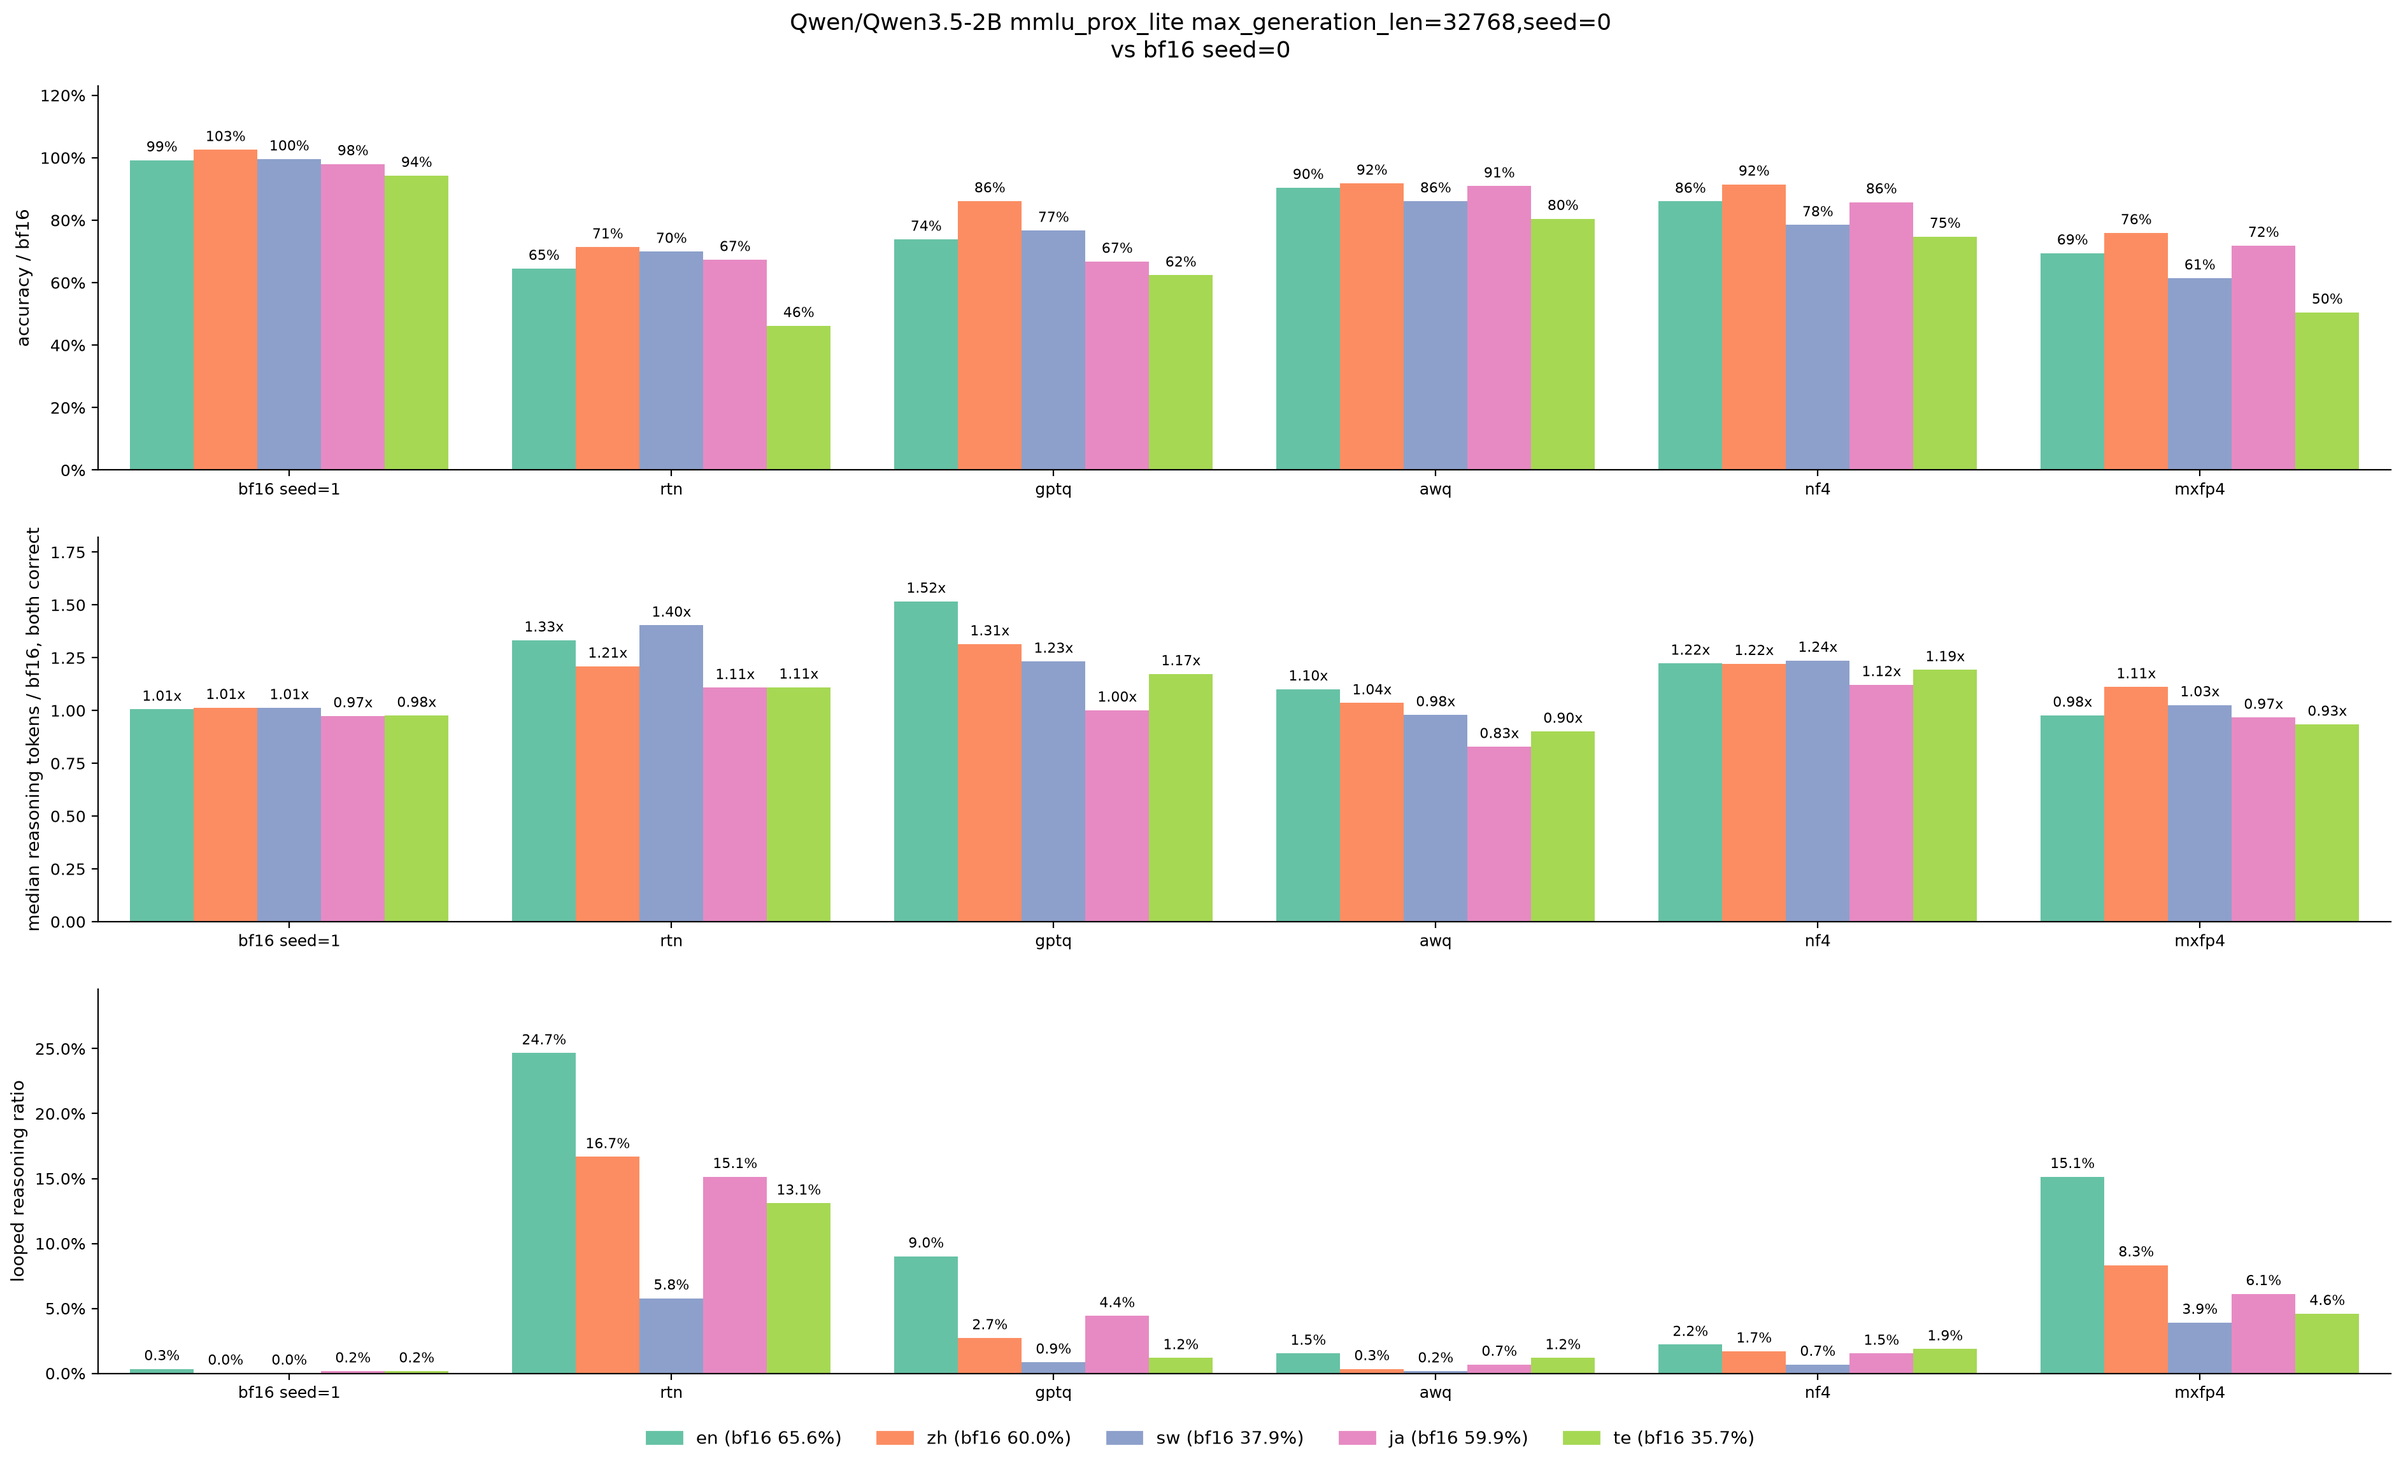
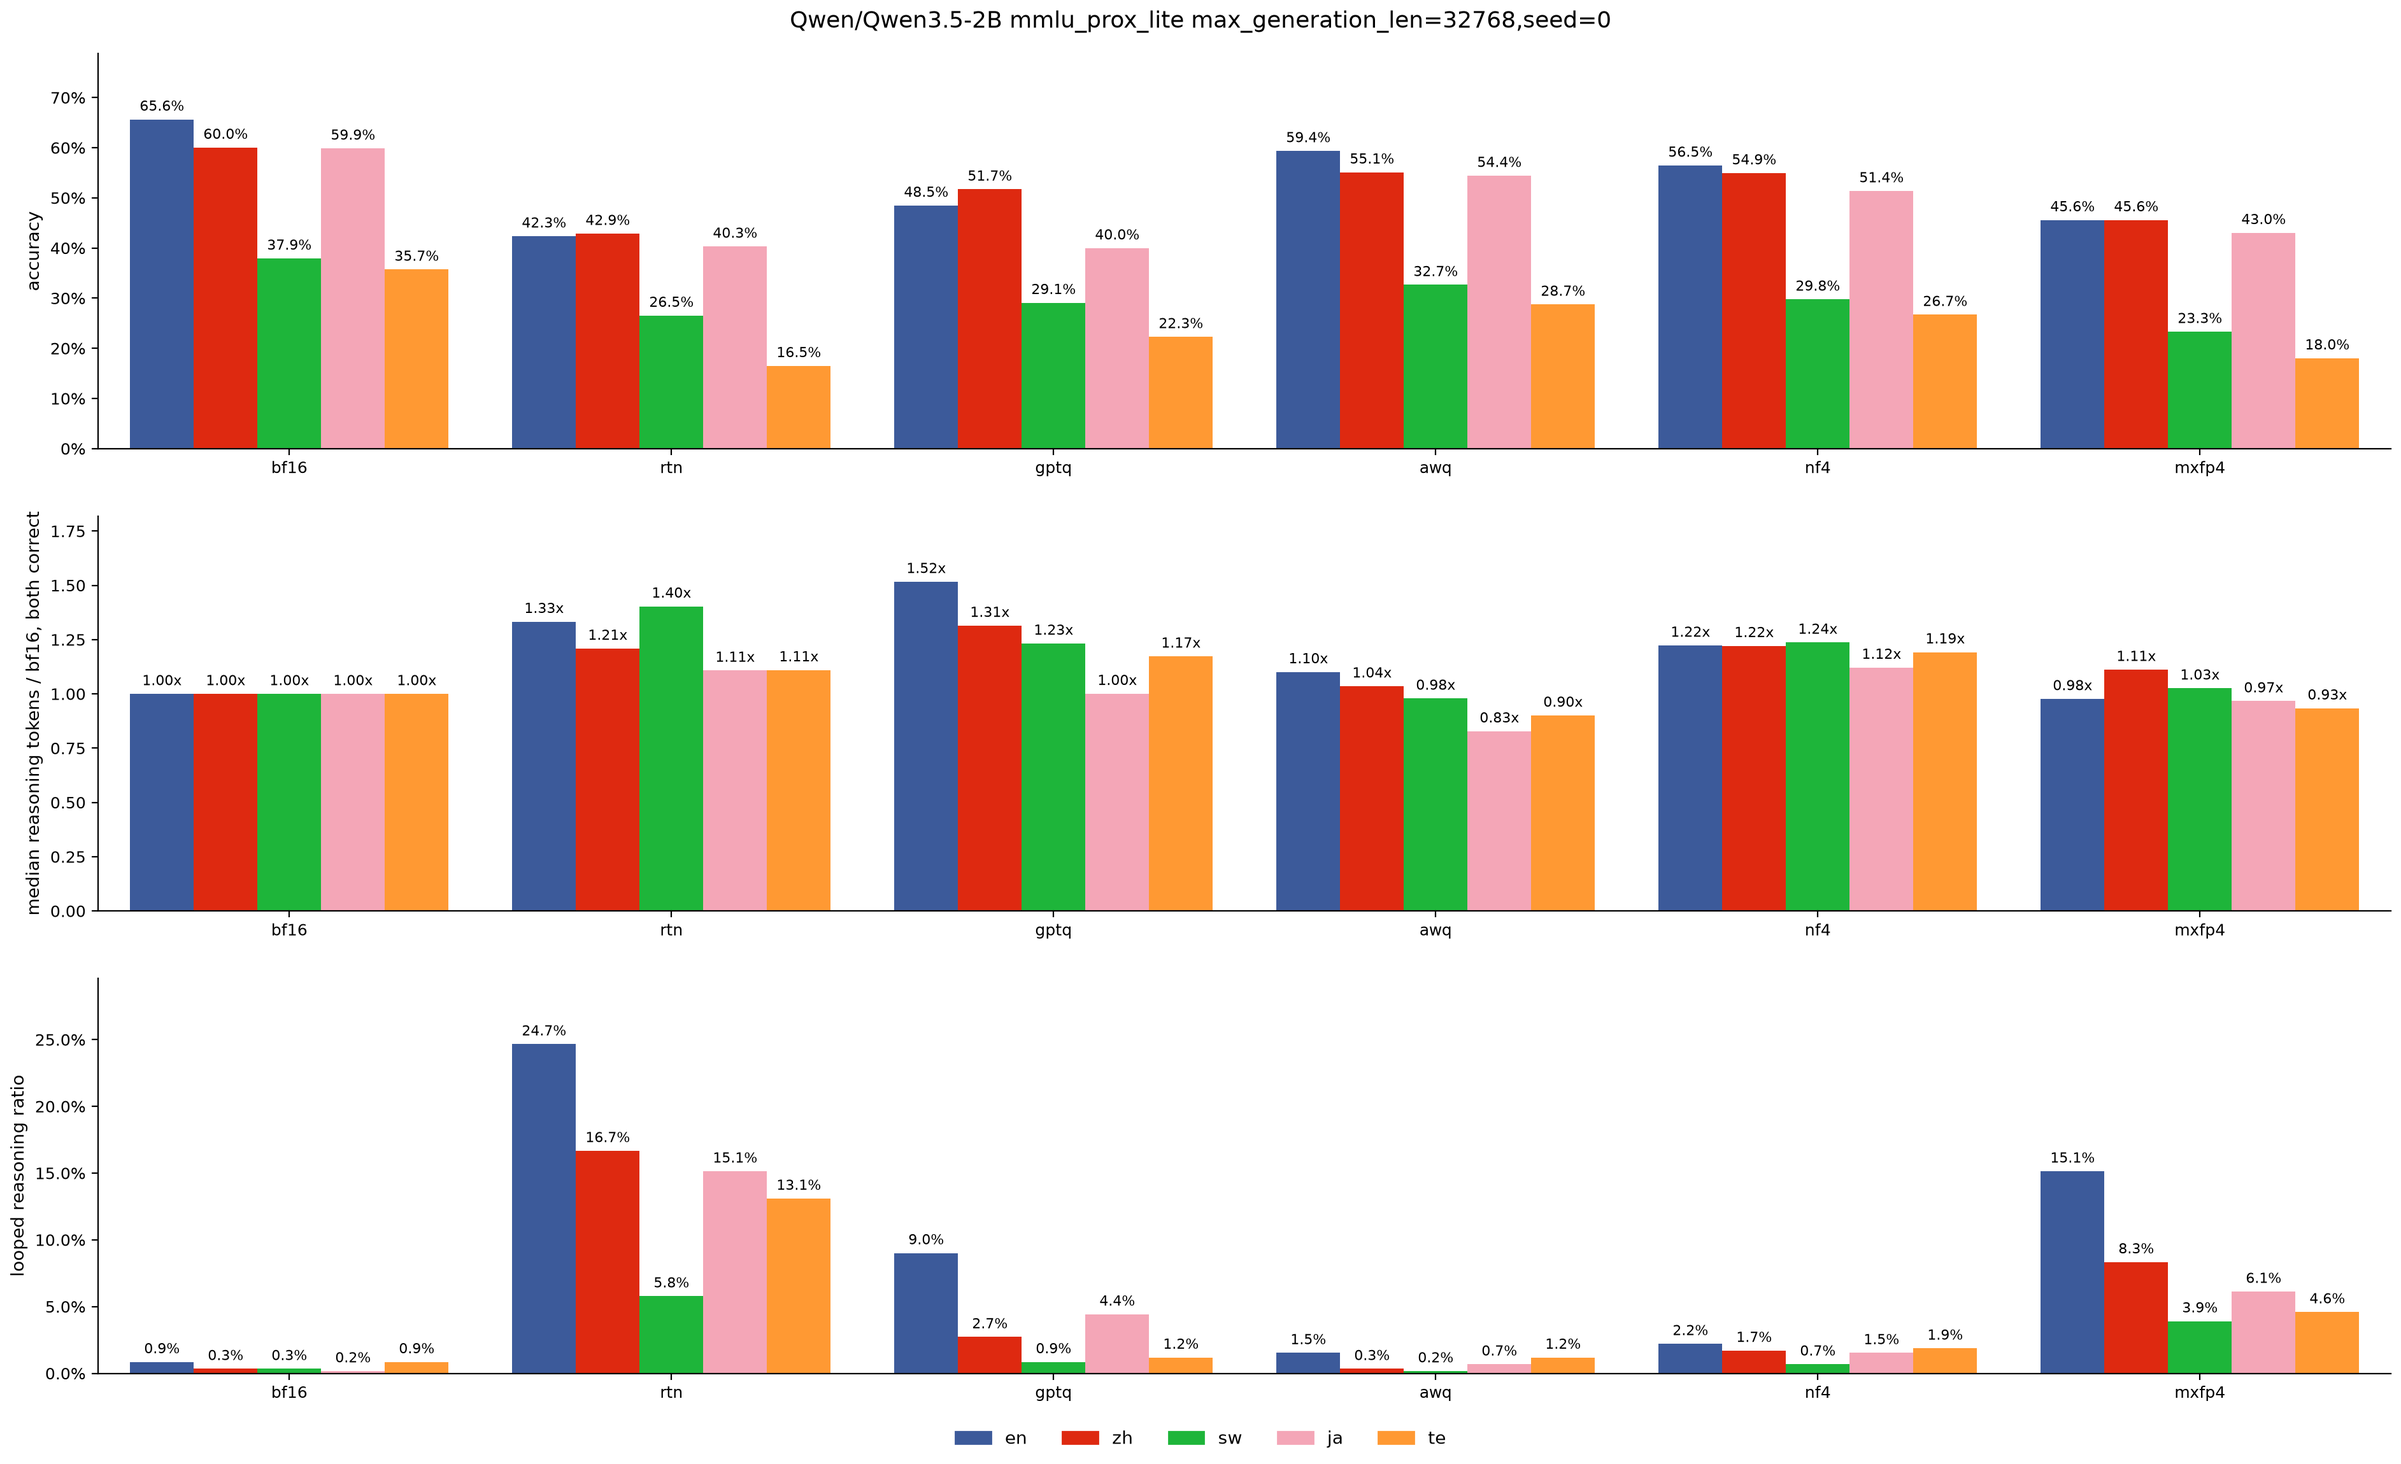
group flip bars by method, use country colors and absolute accuracy

diff --git a/plots/mmlu_prox_lite.py b/plots/mmlu_prox_lite.py
@@ -30,44 +30,40 @@ def main() -> None:
     bf16_result = load_result("mmlu_prox_lite", bf16_target, file_name)
     languages = list(bf16_result)
 
-    results = {}
-    # bf16 with another seed shows sampling noise
-    noise_file_name = f"max_generation_len={config.max_generation_len},seed={config.seed + 1}"
-    if result_exists("mmlu_prox_lite", bf16_target, noise_file_name):
-        results["bf16"] = load_result("mmlu_prox_lite", bf16_target, noise_file_name)
+    results = {"bf16": bf16_result}
     for method in ["rtn", "gptq", "awq", "nf4", "mxfp4"]:
         target = make_target_path(method, config.model_name, config.languages, config.num_bits, config.group_size, config.num_samples)
         if result_exists("mmlu_prox_lite", target, file_name):
             results[method] = load_result("mmlu_prox_lite", target, file_name)
-    method_labels = [f"bf16 seed={config.seed + 1}" if method == "bf16" else method for method in results]
+    methods = list(results)
 
     accuracy_groups = []
     length_groups = []
     loop_groups = []
     for language in languages:
-        accuracy_ratios = [result[language]["accuracy"] / bf16_result[language]["accuracy"] for result in results.values()]
+        accuracies = [result[language]["accuracy"] for result in results.values()]
         length_ratios = [get_length_ratio(result[language], bf16_result[language]) for result in results.values()]
         loop_ratios = [get_loop_ratio(result[language]) for result in results.values()]
-        accuracy_groups.append((accuracy_ratios, LANGUAGE_COLORS[language], [f"{accuracy_ratio:.0%}" for accuracy_ratio in accuracy_ratios]))
+        accuracy_groups.append((accuracies, LANGUAGE_COLORS[language], [f"{accuracy:.1%}" for accuracy in accuracies]))
         length_groups.append((length_ratios, LANGUAGE_COLORS[language], [f"{length_ratio:.2f}x" for length_ratio in length_ratios]))
         loop_groups.append((loop_ratios, LANGUAGE_COLORS[language], [f"{loop_ratio:.1%}" for loop_ratio in loop_ratios]))
     panels = [
-        ("accuracy / bf16", accuracy_groups),
+        ("accuracy", accuracy_groups),
         ("median reasoning tokens / bf16, both correct", length_groups),
         ("looped reasoning ratio", loop_groups),
     ]
     panel_widths = [get_panel_width(len(results), len(languages))]
     fig, axes = plt.subplots(len(panels), 1, figsize=get_figsize(panel_widths, len(panels)), layout="constrained")
     for ax, (ylabel, groups) in zip(axes, panels):
-        plot_bars(ax, method_labels, groups)
+        plot_bars(ax, methods, groups)
         ax.set_ylabel(ylabel)
         ax.margins(y=0.2)
         ax.set_ylim(bottom=0)
     for ax in [axes[0], axes[2]]:
         ax.yaxis.set_major_formatter(PercentFormatter(1))
 
-    fig.suptitle(f"{config.model_name} mmlu_prox_lite {file_name}\nvs bf16 seed={config.seed}")
-    handles = [Patch(color=LANGUAGE_COLORS[language], label=f"{language} (bf16 {bf16_result[language]['accuracy']:.1%})") for language in languages]
+    fig.suptitle(f"{config.model_name} mmlu_prox_lite {file_name}")
+    handles = [Patch(color=LANGUAGE_COLORS[language], label=language) for language in languages]
     fig.legend(handles=handles, loc="outside lower center", ncol=len(handles))
     # panels share one column, so fit width by one panel
     fit_bar_width(fig, [axes[0]])

diff --git a/plots/mgsm.py b/plots/mgsm.py
@@ -30,44 +30,40 @@ def main() -> None:
     bf16_result = load_result("mgsm", bf16_target, file_name)
     languages = list(bf16_result)
 
-    results = {}
-    # bf16 with another seed shows sampling noise
-    noise_file_name = f"max_generation_len={config.max_generation_len},seed={config.seed + 1}"
-    if result_exists("mgsm", bf16_target, noise_file_name):
-        results["bf16"] = load_result("mgsm", bf16_target, noise_file_name)
+    results = {"bf16": bf16_result}
     for method in ["rtn", "gptq", "awq", "nf4", "mxfp4"]:
         target = make_target_path(method, config.model_name, config.languages, config.num_bits, config.group_size, config.num_samples)
         if result_exists("mgsm", target, file_name):
             results[method] = load_result("mgsm", target, file_name)
-    method_labels = [f"bf16 seed={config.seed + 1}" if method == "bf16" else method for method in results]
+    methods = list(results)
 
     accuracy_groups = []
     length_groups = []
     loop_groups = []
     for language in languages:
-        accuracy_ratios = [result[language]["accuracy"] / bf16_result[language]["accuracy"] for result in results.values()]
+        accuracies = [result[language]["accuracy"] for result in results.values()]
         length_ratios = [get_length_ratio(result[language], bf16_result[language]) for result in results.values()]
         loop_ratios = [get_loop_ratio(result[language]) for result in results.values()]
-        accuracy_groups.append((accuracy_ratios, LANGUAGE_COLORS[language], [f"{accuracy_ratio:.0%}" for accuracy_ratio in accuracy_ratios]))
+        accuracy_groups.append((accuracies, LANGUAGE_COLORS[language], [f"{accuracy:.1%}" for accuracy in accuracies]))
         length_groups.append((length_ratios, LANGUAGE_COLORS[language], [f"{length_ratio:.2f}x" for length_ratio in length_ratios]))
         loop_groups.append((loop_ratios, LANGUAGE_COLORS[language], [f"{loop_ratio:.1%}" for loop_ratio in loop_ratios]))
     panels = [
-        ("accuracy / bf16", accuracy_groups),
+        ("accuracy", accuracy_groups),
         ("median reasoning tokens / bf16, both correct", length_groups),
         ("looped reasoning ratio", loop_groups),
     ]
     panel_widths = [get_panel_width(len(results), len(languages))]
     fig, axes = plt.subplots(len(panels), 1, figsize=get_figsize(panel_widths, len(panels)), layout="constrained")
     for ax, (ylabel, groups) in zip(axes, panels):
-        plot_bars(ax, method_labels, groups)
+        plot_bars(ax, methods, groups)
         ax.set_ylabel(ylabel)
         ax.margins(y=0.2)
         ax.set_ylim(bottom=0)
     for ax in [axes[0], axes[2]]:
         ax.yaxis.set_major_formatter(PercentFormatter(1))
 
-    fig.suptitle(f"{config.model_name} mgsm {file_name}\nvs bf16 seed={config.seed}")
-    handles = [Patch(color=LANGUAGE_COLORS[language], label=f"{language} (bf16 {bf16_result[language]['accuracy']:.1%})") for language in languages]
+    fig.suptitle(f"{config.model_name} mgsm {file_name}")
+    handles = [Patch(color=LANGUAGE_COLORS[language], label=language) for language in languages]
     fig.legend(handles=handles, loc="outside lower center", ncol=len(handles))
     # panels share one column, so fit width by one panel
     fit_bar_width(fig, [axes[0]])

diff --git a/plots/mmlu_prox_lite_flip.py b/plots/mmlu_prox_lite_flip.py
@@ -9,7 +9,7 @@ from simple_parsing import parse
 from utils.hub import load_result, result_exists
 from utils.metrics import get_flip_ratios
 from utils.paths import make_target_path
-from utils.plot import METHOD_COLORS, fit_bar_width, get_figsize, get_panel_width, plot_bars, save_figure
+from utils.plot import LANGUAGE_COLORS, fit_bar_width, get_figsize, get_panel_width, plot_bars, save_figure
 
 
 @dataclass
@@ -39,26 +39,26 @@ def main() -> None:
         target = make_target_path(method, config.model_name, config.languages, config.num_bits, config.group_size, config.num_samples)
         if result_exists("mmlu_prox_lite", target, file_name):
             results[method] = load_result("mmlu_prox_lite", target, file_name)
-    labels = {method: f"bf16 seed={config.seed + 1}" if method == "bf16" else method for method in results}
+    method_labels = [f"bf16 seed={config.seed + 1}" if method == "bf16" else method for method in results]
 
     gained_groups = []
     lost_groups = []
-    for method, result in results.items():
-        lost_ratios, gained_ratios = zip(*[get_flip_ratios(result[language], bf16_result[language]) for language in languages])
-        gained_groups.append((gained_ratios, METHOD_COLORS[method], [f"+{gained_ratio:.1%}" for gained_ratio in gained_ratios]))
-        lost_groups.append(([-lost_ratio for lost_ratio in lost_ratios], METHOD_COLORS[method], [f"-{lost_ratio:.1%}" for lost_ratio in lost_ratios]))
+    for language in languages:
+        lost_ratios, gained_ratios = zip(*[get_flip_ratios(result[language], bf16_result[language]) for result in results.values()])
+        gained_groups.append((gained_ratios, LANGUAGE_COLORS[language], [f"+{gained_ratio:.1%}" for gained_ratio in gained_ratios]))
+        lost_groups.append(([-lost_ratio for lost_ratio in lost_ratios], LANGUAGE_COLORS[language], [f"-{lost_ratio:.1%}" for lost_ratio in lost_ratios]))
 
-    panel_widths = [get_panel_width(len(languages), len(results))]
+    panel_widths = [get_panel_width(len(results), len(languages))]
     fig, ax = plt.subplots(figsize=get_figsize(panel_widths, 1), layout="constrained")
-    plot_bars(ax, languages, gained_groups)
-    plot_bars(ax, languages, lost_groups)
+    plot_bars(ax, method_labels, gained_groups)
+    plot_bars(ax, method_labels, lost_groups)
     ax.axhline(0, color="black", linewidth=0.8)
     ax.set_ylabel(f"gained (up) and lost (down) vs bf16 seed={config.seed}")
     ax.margins(y=0.25)
     ax.yaxis.set_major_formatter(PercentFormatter(1))
 
     fig.suptitle(f"{config.model_name} mmlu_prox_lite flip\n{file_name}\nratio of {len(bf16_result[languages[0]]['corrects'])} problems")
-    handles = [Patch(color=METHOD_COLORS[method], label=label) for method, label in labels.items()]
+    handles = [Patch(color=LANGUAGE_COLORS[language], label=f"{language} (bf16 {bf16_result[language]['accuracy']:.1%})") for language in languages]
     fig.legend(handles=handles, loc="outside lower center", ncol=len(handles))
     fit_bar_width(fig, [ax])
     save_figure(fig, config.model_name, "mmlu_prox_lite_flip")

diff --git a/plots/mgsm_flip.py b/plots/mgsm_flip.py
@@ -9,7 +9,7 @@ from simple_parsing import parse
 from utils.hub import load_result, result_exists
 from utils.metrics import get_flip_ratios
 from utils.paths import make_target_path
-from utils.plot import METHOD_COLORS, fit_bar_width, get_figsize, get_panel_width, plot_bars, save_figure
+from utils.plot import LANGUAGE_COLORS, fit_bar_width, get_figsize, get_panel_width, plot_bars, save_figure
 
 
 @dataclass
@@ -39,26 +39,26 @@ def main() -> None:
         target = make_target_path(method, config.model_name, config.languages, config.num_bits, config.group_size, config.num_samples)
         if result_exists("mgsm", target, file_name):
             results[method] = load_result("mgsm", target, file_name)
-    labels = {method: f"bf16 seed={config.seed + 1}" if method == "bf16" else method for method in results}
+    method_labels = [f"bf16 seed={config.seed + 1}" if method == "bf16" else method for method in results]
 
     gained_groups = []
     lost_groups = []
-    for method, result in results.items():
-        lost_ratios, gained_ratios = zip(*[get_flip_ratios(result[language], bf16_result[language]) for language in languages])
-        gained_groups.append((gained_ratios, METHOD_COLORS[method], [f"+{gained_ratio:.1%}" for gained_ratio in gained_ratios]))
-        lost_groups.append(([-lost_ratio for lost_ratio in lost_ratios], METHOD_COLORS[method], [f"-{lost_ratio:.1%}" for lost_ratio in lost_ratios]))
+    for language in languages:
+        lost_ratios, gained_ratios = zip(*[get_flip_ratios(result[language], bf16_result[language]) for result in results.values()])
+        gained_groups.append((gained_ratios, LANGUAGE_COLORS[language], [f"+{gained_ratio:.1%}" for gained_ratio in gained_ratios]))
+        lost_groups.append(([-lost_ratio for lost_ratio in lost_ratios], LANGUAGE_COLORS[language], [f"-{lost_ratio:.1%}" for lost_ratio in lost_ratios]))
 
-    panel_widths = [get_panel_width(len(languages), len(results))]
+    panel_widths = [get_panel_width(len(results), len(languages))]
     fig, ax = plt.subplots(figsize=get_figsize(panel_widths, 1), layout="constrained")
-    plot_bars(ax, languages, gained_groups)
-    plot_bars(ax, languages, lost_groups)
+    plot_bars(ax, method_labels, gained_groups)
+    plot_bars(ax, method_labels, lost_groups)
     ax.axhline(0, color="black", linewidth=0.8)
     ax.set_ylabel(f"gained (up) and lost (down) vs bf16 seed={config.seed}")
     ax.margins(y=0.25)
     ax.yaxis.set_major_formatter(PercentFormatter(1))
 
     fig.suptitle(f"{config.model_name} mgsm flip\n{file_name}\nratio of {len(bf16_result[languages[0]]['corrects'])} problems")
-    handles = [Patch(color=METHOD_COLORS[method], label=label) for method, label in labels.items()]
+    handles = [Patch(color=LANGUAGE_COLORS[language], label=f"{language} (bf16 {bf16_result[language]['accuracy']:.1%})") for language in languages]
     fig.legend(handles=handles, loc="outside lower center", ncol=len(handles))
     fit_bar_width(fig, [ax])
     save_figure(fig, config.model_name, "mgsm_flip")

diff --git a/utils/plot.py b/utils/plot.py
@@ -5,7 +5,7 @@ from matplotlib.figure import Figure
 import matplotlib.pyplot as plt
 
 METHOD_COLORS = {"bf16": "tab:gray", "rtn": "tab:blue", "gptq": "tab:orange", "awq": "tab:green", "nf4": "tab:purple", "mxfp4": "tab:brown"}
-LANGUAGE_COLORS = {"en": "#66c2a5", "zh": "#fc8d62", "sw": "#8da0cb", "ja": "#e78ac3", "te": "#a6d854"}
+LANGUAGE_COLORS = {"en": "#3c5a9a", "zh": "#de2910", "sw": "#1eb53a", "ja": "#f4a6b7", "te": "#ff9933"}
 BAR_INCHES = 0.5
 BAR_GAP = 1
 PANEL_HEIGHT = 3.5
